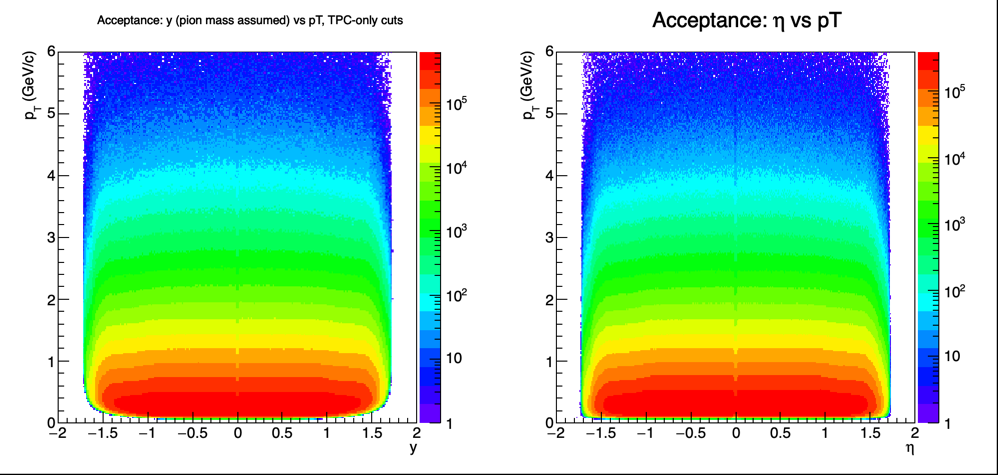
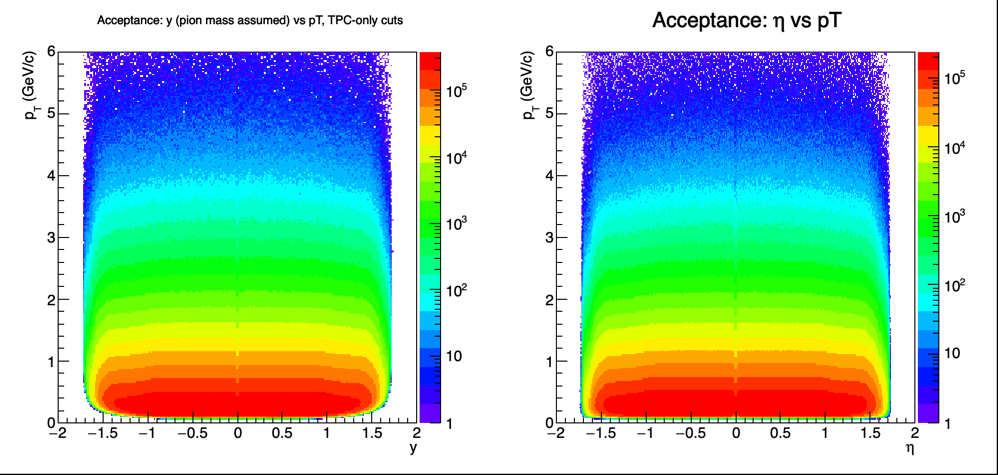
Capitalize plot and canvas titles in QA and presentation macros

diff --git a/macros/TestErrorBarDraw4.C b/macros/TestErrorBarDraw4.C
@@ -14,7 +14,7 @@ void TestErrorBarDraw4(){
   TH1D* hA = new TH1D("hA","hA",5,0,5);
   hA->SetBinContent(3,0.00408945);
   hA->SetBinError(3,0.000382926);
-  TCanvas* cA = new TCanvas("cA","cA -- small value, fresh histogram",600,600);
+  TCanvas* cA = new TCanvas("cA","cA -- Small Value, Fresh Histogram",600,600);
   gPad->SetLogy();
   TH1F* frA = gPad->DrawFrame(0,1e-5,5,1);
   frA->Draw();
@@ -29,7 +29,7 @@ void TestErrorBarDraw4(){
   TH1D* projJ_B = new TH1D("projJ_B","projJ_B",5,0,5);
   TH1D* hB = (TH1D*) gROOT->ProcessLine(Form("combineMirroredProjections((TH1D*)%p,(TH1D*)%p,\"hB\")",(void*)projI_B,(void*)projJ_B));
   cout << "hB bin 3: content=" << hB->GetBinContent(3) << " error=" << hB->GetBinError(3) << endl;
-  TCanvas* cB = new TCanvas("cB","cB -- large value, through combineMirroredProjections",600,600);
+  TCanvas* cB = new TCanvas("cB","cB -- Large Value, Through combineMirroredProjections",600,600);
   gPad->SetLogy();
   TH1F* frB = gPad->DrawFrame(0,0.1,5,100);
   frB->Draw();
@@ -45,7 +45,7 @@ void TestErrorBarDraw4(){
   TH1D* projJ_C = new TH1D("projJ_C","projJ_C",5,0,5);
   TH1D* hC = (TH1D*) gROOT->ProcessLine(Form("combineMirroredProjections((TH1D*)%p,(TH1D*)%p,\"hC\")",(void*)projI_C,(void*)projJ_C));
   cout << "hC bin 3: content=" << hC->GetBinContent(3) << " error=" << hC->GetBinError(3) << endl;
-  TCanvas* cC = new TCanvas("cC","cC -- small value, through combineMirroredProjections",600,600);
+  TCanvas* cC = new TCanvas("cC","cC -- Small Value, Through combineMirroredProjections",600,600);
   gPad->SetLogy();
   TH1F* frC = gPad->DrawFrame(0,1e-5,5,1);
   frC->Draw();
@@ -57,7 +57,7 @@ void TestErrorBarDraw4(){
   TH1D* hD = new TH1D("hD","hD",5,0,5);
   hD->SetBinContent(3,10);
   hD->SetBinError(3,2);
-  TCanvas* cD = new TCanvas("cD","cD -- large value, fresh histogram",600,600);
+  TCanvas* cD = new TCanvas("cD","cD -- Large Value, Fresh Histogram",600,600);
   gPad->SetLogy();
   TH1F* frD = gPad->DrawFrame(0,0.1,5,100);
   frD->Draw();

diff --git a/macros/PresentCalibrationQA.C b/macros/PresentCalibrationQA.C
@@ -66,7 +66,7 @@ void PresentCalibrationQA(string a_inputFile, string a_species = "Proton", strin
   gStyle->SetOptStat(0);
   gStyle->SetPalette(1);
 
-  TCanvas* c = new TCanvas("PresentCalibrationQA","Calibration QA overview",1400,600);
+  TCanvas* c = new TCanvas("PresentCalibrationQA","Calibration QA Overview",1400,600);
   c->Divide(2,1);
 
   // Extra right margin on both COLZ pads -- otherwise the z-axis (palette) power-of-10
@@ -77,7 +77,7 @@ void PresentCalibrationQA(string a_inputFile, string a_species = "Proton", strin
     // the actual calibration check: a flat band centered at 0 means the Bichsel
     // prediction matches the data at this V_Z slice.
     TH2* calibProj = (TH2*) calib3D->Project3D("zy");
-    calibProj->SetTitle(Form("%s calibration (Vz bin 0): ln(dE/dx / prediction) vs #beta#gamma",a_species.c_str()));
+    calibProj->SetTitle(Form("%s Calibration (Vz Bin 0): ln(dE/dx / Prediction) vs #beta#gamma",a_species.c_str()));
     if(calibProj->GetEntries() == 0){
       // A found-but-empty histogram looks identical to a blank pad once drawn with
       // COLZ -- flag it explicitly rather than silently rendering nothing. Common
@@ -112,7 +112,7 @@ void PresentCalibrationQA(string a_inputFile, string a_species = "Proton", strin
   // centered on 0 and goes negative, so a log scale isn't valid there.
   c->cd(2); gPad->SetLogx(); gPad->SetLogy(); gPad->SetLogz(); gPad->SetRightMargin(0.15);
   if(isolated){
-    isolated->SetTitle(Form("Isolated (BTOF-tagged) dE/dx for %s+",a_species.c_str()));
+    isolated->SetTitle(Form("Isolated (BTOF-Tagged) dE/dx for %s+",a_species.c_str()));
     isolated->Draw("COLZ");
   }
 

diff --git a/macros/PresentPhysicsOutput.C b/macros/PresentPhysicsOutput.C
@@ -61,7 +61,7 @@ void PresentPhysicsOutput(string a_inputFile, string a_species = "Proton", int a
   gStyle->SetOptStat(0);
   gStyle->SetPalette(1);
 
-  TCanvas* c = new TCanvas("PresentPhysicsOutput","Raw yield overview",1400,600);
+  TCanvas* c = new TCanvas("PresentPhysicsOutput","Raw Yield Overview",1400,600);
   c->Divide(2,1);
 
   // Extra right margin on both COLZ pads -- otherwise the z-axis (palette) power-of-10
@@ -72,7 +72,7 @@ void PresentPhysicsOutput(string a_inputFile, string a_species = "Proton", int a
   c->cd(1); gPad->SetLogz(); gPad->SetRightMargin(0.15);
   if(zTPCPlus){
     TH2* projPlus = (TH2*) zTPCPlus->Project3D("xy");
-    projPlus->SetTitle(Form("Raw TPC yield: %s+, Cent %d (y vs m_{T}-m_{0}, summed over Z_{TPC})",a_species.c_str(),a_centIndex));
+    projPlus->SetTitle(Form("Raw TPC Yield: %s+, Cent %d (y vs m_{T}-m_{0}, Summed Over Z_{TPC})",a_species.c_str(),a_centIndex));
     projPlus->GetXaxis()->SetRangeUser(projPlus->GetXaxis()->GetXmin(), 0);
     projPlus->Draw("COLZ");
   }
@@ -80,7 +80,7 @@ void PresentPhysicsOutput(string a_inputFile, string a_species = "Proton", int a
   c->cd(2); gPad->SetLogz(); gPad->SetRightMargin(0.15);
   if(zTPCMinus){
     TH2* projMinus = (TH2*) zTPCMinus->Project3D("xy");
-    projMinus->SetTitle(Form("Raw TPC yield: %s-, Cent %d (y vs m_{T}-m_{0}, summed over Z_{TPC})",a_species.c_str(),a_centIndex));
+    projMinus->SetTitle(Form("Raw TPC Yield: %s-, Cent %d (y vs m_{T}-m_{0}, Summed Over Z_{TPC})",a_species.c_str(),a_centIndex));
     projMinus->GetXaxis()->SetRangeUser(projMinus->GetXaxis()->GetXmin(), 0);
     projMinus->Draw("COLZ");
   }

diff --git a/macros/PresentZFitterSpectra.C b/macros/PresentZFitterSpectra.C
@@ -1037,7 +1037,7 @@ void drawOneChargeSign(TH2* a_tpcHist, TH2* a_btofHist, TH2* a_etofHist,
   // histogram/frame titles render the same LaTeX-like markup as axis titles and the
   // legend header, so this is consistent with where the symbol was first introduced.
   TH1F* frame = gPad->DrawFrame(0,yFloor,frameMaxMtM0,globalMaxY*3,
-                                 Form("%s, %s, 1/(2#pi N_{evt}) dN/dy d(m_{T}-m_{0}) vs m_{T}-m_{0}, +y/-y rapidity bins combined",
+                                 Form("%s, %s, 1/(2#pi N_{evt}) dN/dy d(m_{T}-m_{0}) vs m_{T}-m_{0}, +y/-y Rapidity Bins Combined",
                                       particleSymbolWithCharge(a_speciesName,a_chargeLabel).c_str(),centralityLabel(a_centIndex).c_str()));
   frame->GetXaxis()->SetTitle("m_{T}-m_{0} [GeV/c^{2}]");
   frame->GetYaxis()->SetTitle("1/(2#pi N_{evt}) dN/dy d(m_{T}-m_{0}) [(GeV/c^{2})^{-1}]");
@@ -1290,7 +1290,7 @@ void PresentZFitterSpectra(string a_tpcZFitterFile, string a_btofZFitterFile = "
   gStyle->SetOptStat(0);
 
   TCanvas* c = new TCanvas(Form("PresentZFitterSpectra_%s_Cent%02d",speciesName.c_str(),a_centIndex), // internal object name, kept as CentNN (not user-visible)
-                            Form("%s ZFitter spectra, %s",speciesName.c_str(),centralityLabel(a_centIndex).c_str()),2000,900); // window title, shown in ROOT's GUI title bar if run interactively
+                            Form("%s ZFitter Spectra, %s",speciesName.c_str(),centralityLabel(a_centIndex).c_str()),2000,900); // window title, shown in ROOT's GUI title bar if run interactively
   c->Divide(2,1);
 
   c->cd(1);

diff --git a/macros/DrawSpectraAndDnDy.C b/macros/DrawSpectraAndDnDy.C
@@ -175,7 +175,7 @@ void DrawSpectraAndDnDy(string a_fitOutputFile,
           title->SetBorderSize(0);
           title->SetFillStyle(0);
           title->SetTextAlign(12);
-          title->AddText(Form("%s spectra -- Cent bin %02d", particleSymbol.Data(), centIndex));
+          title->AddText(Form("%s Spectra -- Cent Bin %02d", particleSymbol.Data(), centIndex));
           title->Draw("SAME");
 
           TString outName = Form("%s/spectra_%s_Cent%02d.png", a_outputDir.c_str(), particleName.Data(), centIndex);
@@ -234,7 +234,7 @@ void DrawSpectraAndDnDy(string a_fitOutputFile,
           if(maxY <= 0) maxY = 1.0;
 
           TH1F* frame = c->DrawFrame(minX, 0.0, maxX, maxY*1.3);
-          frame->GetXaxis()->SetTitle("rapidity y");
+          frame->GetXaxis()->SetTitle("Rapidity y");
           frame->GetYaxis()->SetTitle("dN/dy");
           frame->GetXaxis()->SetTitleSize(0.035);
           frame->GetYaxis()->SetTitleSize(0.035);
@@ -262,7 +262,7 @@ void DrawSpectraAndDnDy(string a_fitOutputFile,
           title->SetBorderSize(0);
           title->SetFillStyle(0);
           title->SetTextAlign(12);
-          title->AddText(Form("%s dN/dy -- %s fit", particleSymbol.Data(), variants[v]));
+          title->AddText(Form("%s dN/dy -- %s Fit", particleSymbol.Data(), variants[v]));
           title->Draw("SAME");
 
           TString outName = Form("%s/dNdy_%s_%s.png", a_outputDir.c_str(), particleName.Data(), variants[v]);

diff --git a/macros/PresentEventQA.C b/macros/PresentEventQA.C
@@ -55,7 +55,7 @@ void PresentEventQA(string a_inputFile, string a_speciesSuffix = "Proton", strin
   gStyle->SetOptStat(1);
   gStyle->SetPalette(1);
 
-  TCanvas* c = new TCanvas("PresentEventQA","Event QA overview",1400,1000);
+  TCanvas* c = new TCanvas("PresentEventQA","Event QA Overview",1400,1000);
   c->Divide(2,2);
 
   // dca is track-level (booked 0-3.5, unitless in PicoBinner.cxx, but the DCA cut
@@ -75,7 +75,7 @@ void PresentEventQA(string a_inputFile, string a_speciesSuffix = "Proton", strin
   // clipped/overlap the next pad in this Divide(2,2) grid.
   c->cd(2); gPad->SetLogz(); gPad->SetRightMargin(0.15);
   if(xyHisto){
-    xyHisto->SetTitle("Event vertex X vs Y");
+    xyHisto->SetTitle("Event Vertex X vs Y");
     xyHisto->Draw("COLZ");
     // The default stats box (gStyle->SetOptStat(1) above) sits top-right, right on top
     // of the COLZ palette -- move it to the top-left corner instead, out of the way.
@@ -125,7 +125,7 @@ void PresentEventQA(string a_inputFile, string a_speciesSuffix = "Proton", strin
 
   c->cd(4);
   if(centEvents){
-    centEvents->SetTitle("Events per centrality bin");
+    centEvents->SetTitle("Events per Centrality Bin");
     // Force the y-axis to start at 0 -- ROOT's default autoscale starts near the
     // lowest bin content, which zero-suppresses the axis and exaggerates bin-to-bin
     // differences that are actually small relative to the total.

diff --git a/macros/PresentAcceptance.C b/macros/PresentAcceptance.C
@@ -41,7 +41,7 @@ void PresentAcceptance(string a_inputFile, string a_outDir = "."){
   gStyle->SetOptStat(0);
   gStyle->SetPalette(1);
 
-  TCanvas* c = new TCanvas("PresentAcceptance","Acceptance overview",1000,500);
+  TCanvas* c = new TCanvas("PresentAcceptance","Acceptance Overview",1000,500);
   c->Divide(2,1);
 
   // y/eta are dimensionless (no unit); pT is in GeV/c (filled from PicoBinner's pT
@@ -51,7 +51,7 @@ void PresentAcceptance(string a_inputFile, string a_outDir = "."){
   // Both (pseudo)rapidity axes are display-clipped to [-2,2] -- just clips the plotted
   // range, doesn't rebin or re-cut the underlying data.
   c->cd(1); gPad->SetLogz(); gPad->SetRightMargin(0.15);
-  if(pionYPt){ pionYPt->SetTitle("Acceptance: y (pion mass assumed) vs pT, TPC-only cuts"); pionYPt->GetYaxis()->SetTitle("p_{T} (GeV/c)"); pionYPt->GetXaxis()->SetRangeUser(-2, 2); pionYPt->Draw("COLZ"); }
+  if(pionYPt){ pionYPt->SetTitle("Acceptance: y (Pion Mass Assumed) vs pT, TPC-Only Cuts"); pionYPt->GetYaxis()->SetTitle("p_{T} (GeV/c)"); pionYPt->GetXaxis()->SetRangeUser(-2, 2); pionYPt->Draw("COLZ"); }
 
   c->cd(2); gPad->SetLogz(); gPad->SetRightMargin(0.15);
   if(etaPt){ etaPt->SetTitle("Acceptance: #eta vs pT"); etaPt->GetYaxis()->SetTitle("p_{T} (GeV/c)"); etaPt->GetXaxis()->SetRangeUser(-2, 2); etaPt->Draw("COLZ"); }

diff --git a/macros/ScanNHitsMaxVsEta.C b/macros/ScanNHitsMaxVsEta.C
@@ -113,20 +113,20 @@ void ScanNHitsMaxVsEta(string a_inputFile,
   gSystem->mkdir(a_outDir.c_str(), true);
 
   TGraph* peakGraph = new TGraph((int)etaVals.size(), &etaVals[0], &peakVals[0]);
-  peakGraph->SetTitle(";#eta;peak (mode) N_{hits}^{max}");
+  peakGraph->SetTitle(";#eta;Peak (Mode) N_{hits}^{max}");
   peakGraph->SetMarkerStyle(20);
   peakGraph->SetMarkerSize(0.5);
   peakGraph->SetMarkerColor(kBlue+2);
   peakGraph->SetLineColor(kBlue+2);
 
   TGraph* spikeGraph = new TGraph((int)etaVals.size(), &etaVals[0], &spikinessVals[0]);
-  spikeGraph->SetTitle(";#eta;fraction within #pm1 hit of peak (\"spikiness\")");
+  spikeGraph->SetTitle(";#eta;Fraction Within #pm1 Hit of Peak (\"Spikiness\")");
   spikeGraph->SetMarkerStyle(20);
   spikeGraph->SetMarkerSize(0.5);
   spikeGraph->SetMarkerColor(kRed+1);
   spikeGraph->SetLineColor(kRed+1);
 
-  TCanvas* c = new TCanvas("ScanNHitsMaxVsEta","NHitsMax ceiling + spikiness vs eta",900,900);
+  TCanvas* c = new TCanvas("ScanNHitsMaxVsEta","NHitsMax Ceiling + Spikiness vs Eta",900,900);
   c->Divide(1,2);
 
   c->cd(1);

diff --git a/macros/ProjectNHitsMaxSlices.C b/macros/ProjectNHitsMaxSlices.C
@@ -70,7 +70,7 @@ void ProjectNHitsMaxSlices(string a_inputFile,
   int nCols = (nSlices <= 3) ? nSlices : (int)TMath::Ceil(nSlices/2.0);
   int nRows = (nSlices <= 3) ? 1 : 2;
 
-  TCanvas* c = new TCanvas("ProjectNHitsMaxSlices","NHitsMax 1D slices vs eta",
+  TCanvas* c = new TCanvas("ProjectNHitsMaxSlices","NHitsMax 1D Slices vs Eta",
                             450*nCols, 450*nRows);
   c->Divide(nCols, nRows);
 
@@ -85,7 +85,7 @@ void ProjectNHitsMaxSlices(string a_inputFile,
     int binHigh = etaNHitsMax->GetXaxis()->FindBin(etaHigh);
 
     TH1D* proj = etaNHitsMax->ProjectionY(Form("proj_eta_%.3f", etaCenter), binLow, binHigh);
-    proj->SetTitle(Form("#eta #in [%.3f, %.3f];N_{hits}^{max};entries", etaLow, etaHigh));
+    proj->SetTitle(Form("#eta #in [%.3f, %.3f];N_{hits}^{max};Entries", etaLow, etaHigh));
     proj->SetDirectory(0);
 
     double totalEntries = proj->Integral();

diff --git a/macros/CompareSpectra_OO200_vs_etof.C b/macros/CompareSpectra_OO200_vs_etof.C
@@ -201,7 +201,7 @@ void runStage(TFile* a_fEtof, TFile* a_fOO200, string a_stageLabel, string a_his
 
     TGraphErrors* g = new TGraphErrors((int) xVals.size(), xVals.data(), yVals.data(), nullptr, yErrs.data());
     g->SetName(Form("g_%s_RapBin%02d", a_stageLabel.c_str(), ixRap));
-    g->SetTitle(Form("%s: etof / OO200, %s%s, RapBin %02d (y #in [%.2f, %.2f]);Centrality bin;etof / OO200",
+    g->SetTitle(Form("%s: etof / OO200, %s%s, RapBin %02d (y #in [%.2f, %.2f]);Centrality Bin;etof / OO200",
                       a_stageLabel.c_str(), a_particleName.c_str(), a_charge.c_str(), ixRap, yLo, yHi));
     g->SetLineColor(kRed);
     g->SetMarkerColor(kRed);

diff --git a/macros/DiffMTM0ZTPCDumps.C b/macros/DiffMTM0ZTPCDumps.C
@@ -136,7 +136,7 @@ void DiffMTM0ZTPCDumps(string a_etofCsv, string a_oo200Csv, string a_outDir = ".
 
     TGraphErrors* g = new TGraphErrors((int) xVals.size(), xVals.data(), yVals.data(), nullptr, yErrs.data());
     g->SetName(Form("g_rawTPC_RapBin%02d", rapIndex));
-    g->SetTitle(Form("Raw TPC input (pre-fit): etof / OO200, ProtonPlus, RapBin %02d;Centrality bin;etof / OO200", rapIndex));
+    g->SetTitle(Form("Raw TPC Input (Pre-Fit): etof / OO200, ProtonPlus, RapBin %02d;Centrality Bin;etof / OO200", rapIndex));
     g->SetLineColor(kRed);
     g->SetMarkerColor(kRed);
     g->SetMarkerStyle(20);

diff --git a/macros/GetRefMultHisto.C b/macros/GetRefMultHisto.C
@@ -190,7 +190,7 @@ void GetRefMultHisto(string a_filelist,
   gStyle->SetOptStat(1);
   TCanvas* c = new TCanvas("GetRefMultHisto","refMult",900,700);
   c->SetLogy();
-  refMult->SetTitle(a_triggerId >= 0 ? Form("refMult, fastoffline, trigger %d",a_triggerId) : "refMult, fastoffline, no trigger cut");
+  refMult->SetTitle(a_triggerId >= 0 ? Form("refMult, Fastoffline, Trigger %d",a_triggerId) : "refMult, Fastoffline, No Trigger Cut");
   refMult->GetXaxis()->SetRangeUser(0, a_xMaxDisplay);
   refMult->Draw();
 
